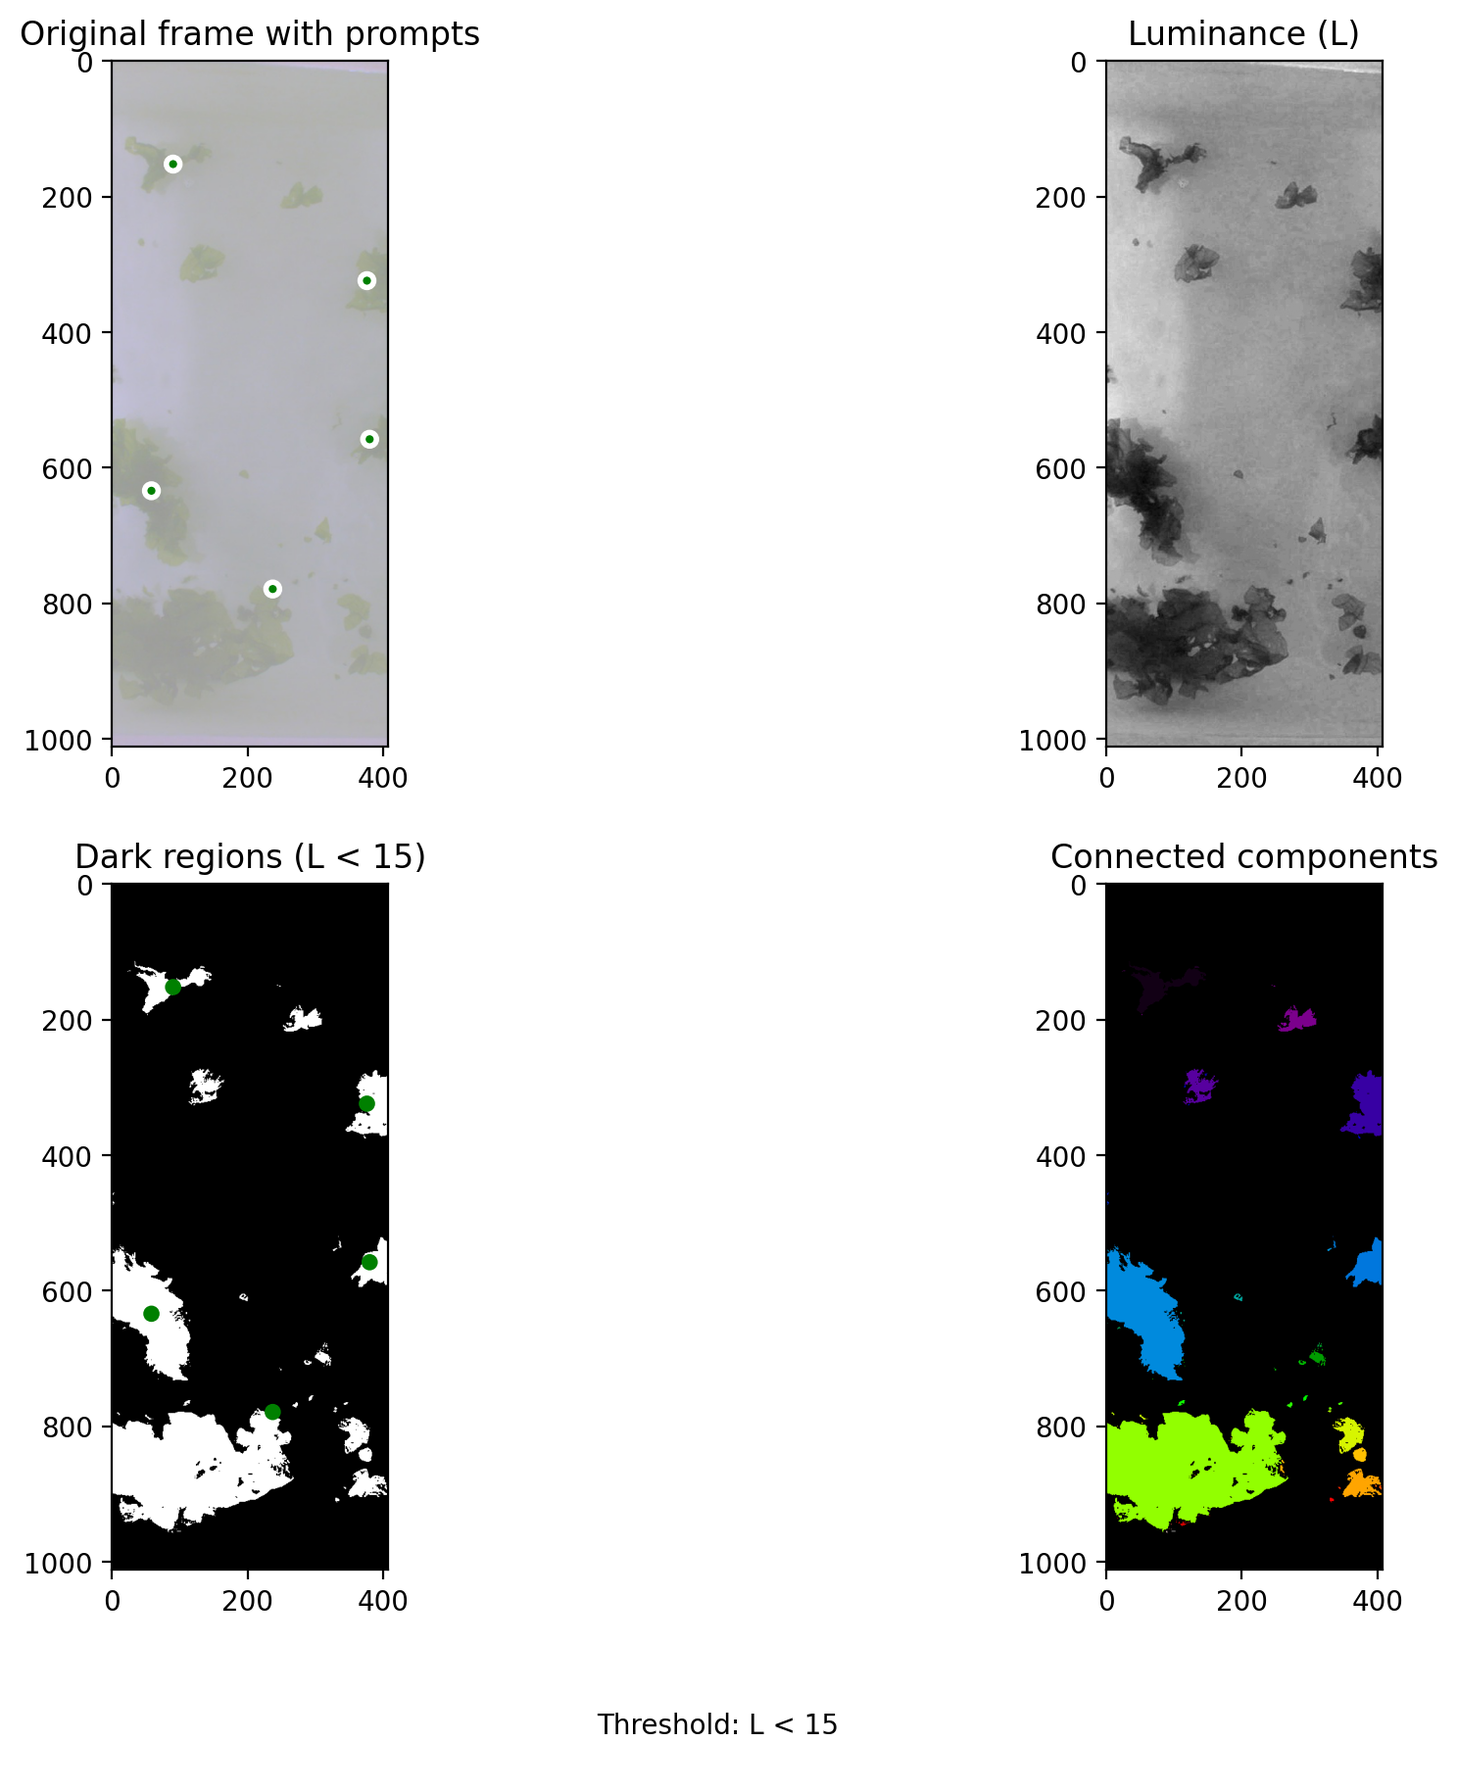
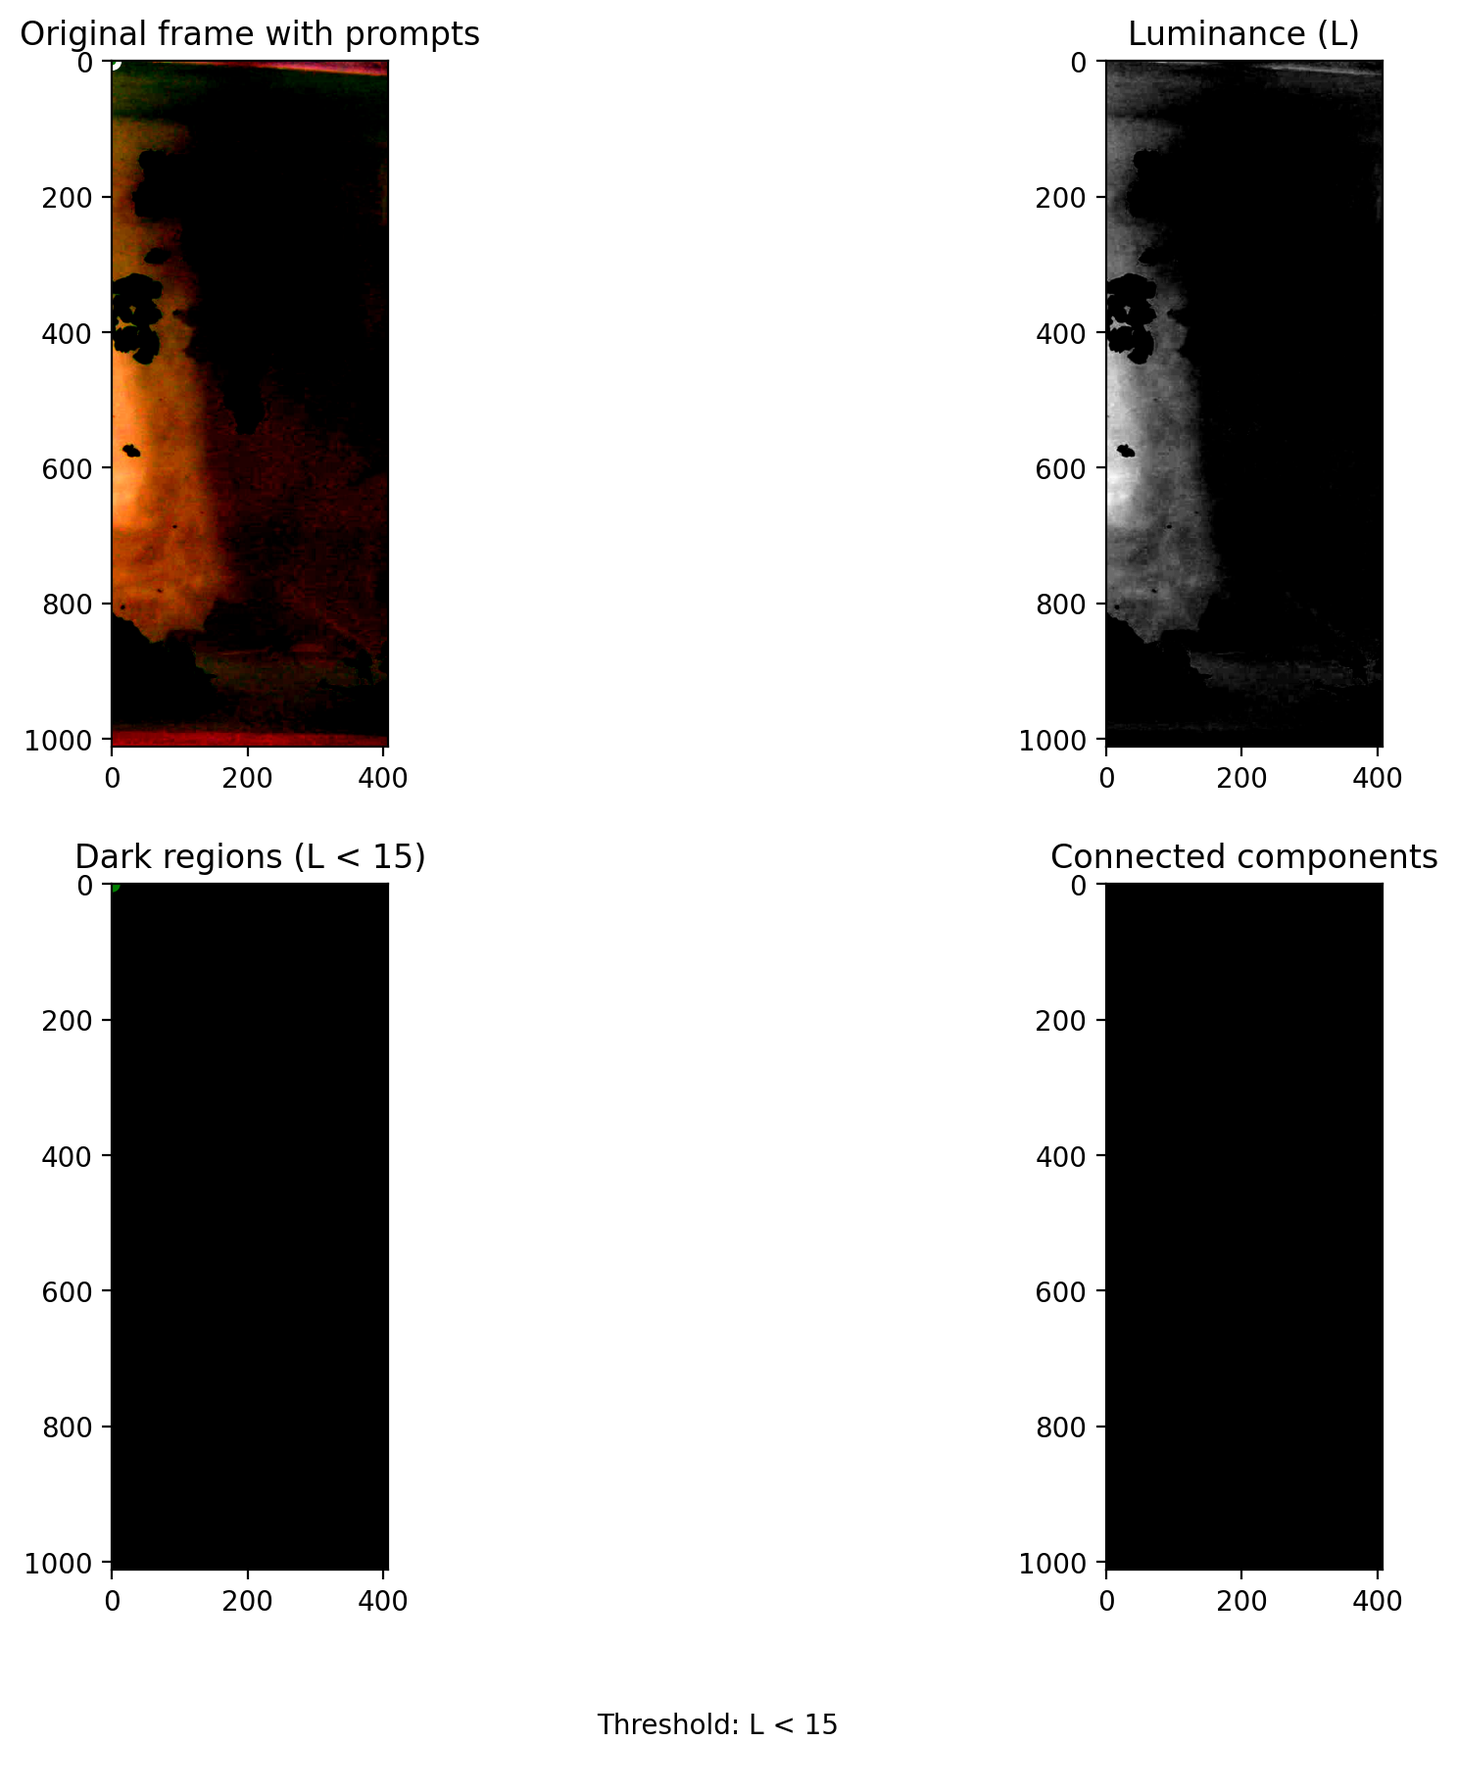
Update normalization function

diff --git a/main.py b/main.py
@@ -15,8 +15,11 @@ def process_video_directory(
     trial_frames_dict,
     model_name="facebook/sam2-hiera-base-plus",
     conf_threshold=0.5,
+    num_prompts=5,
+    luminance_percentile=10,
     output_folder="data/processed",
     max_frames=None,
+    save_files=False
 ):
     """
     Process video frames from multiple directories, extract features, and visualize results.
@@ -31,18 +34,22 @@ def process_video_directory(
     # Create output folder if it doesn't exist
     os.makedirs(output_folder, exist_ok=True)
 
+    # Initialize a list to hold all DataFrames
+    all_dfs = []
+
     # Process each directory
-    # for data_dir in data_dirs:
     for trial_name, frames in trial_frames_dict.items():
-        print(f"[INFO] Processing trial:: {trial_name}")
+        print(f"{'-' * 50}")
+        print(f"[INFO] Processing trial: {trial_name} using SAM")
 
         # Initialize DataFrame for this directory
         df = pd.DataFrame()
         # df['frame_path'] = get_frame_paths(data_dir)[:max_frames] if max_frames else get_frame_paths(data_dir)
         # df['frame_id'] = df['frame_path'].apply(lambda x: int(os.path.splitext(os.path.basename(x))[0]))
         df['frame_id'] = list(range(len(frames)))
-        df[['model_name', 'conf_threshold']] = model_name, conf_threshold
+        df[['model_name', 'conf_threshold', 'num_prompts', 'luminance_percentile', ]] = model_name, conf_threshold, num_prompts, luminance_percentile
         df['density'] = extract_density_from_dir(trial_name)
+        df['trial'] = trial_name[-1] # Takes number from names like 'Ulva_05_1_trial2'
 
         # Prompt SAM2 for video processing
         # video_frames, probs_stack, all_outputs = prompt_sam2(data_dir, model_name, max_frames, num_prompts=5, luminance_percentile=10)
@@ -51,7 +58,11 @@ def process_video_directory(
         # video_frames, probs_stack, all_outputs = segment_frames_sam2(frames, model_name, max_frames, num_prompts=5, luminance_percentile=10)
 
         # Prompt SAM1 for semantic segmentation per-frame
-        video_frames, probs_stack, all_outputs = segment_frames_sam1(frames, model_name, max_frames, num_prompts=5, luminance_percentile=15)
+        video_frames, probs_stack, all_outputs = segment_frames_sam1(frames, 
+                                                                    model_name, 
+                                                                    max_frames, 
+                                                                    num_prompts=num_prompts, 
+                                                                    luminance_percentile=luminance_percentile)
 
         # Pre-allocate lists for all features
         feature_keys = ['surface_area', 'mean_R', 'mean_G', 'mean_B', 'mean_L', 'mean_a', 'mean_b']
@@ -62,8 +73,8 @@ def process_video_directory(
             # Unpack prompts for this frame
             current_points = all_outputs[frame_idx]['points']
             current_labels = all_outputs[frame_idx]['labels']
-            # current_logits = all_outputs[frame_idx]['logits']
-            # current_masks = all_outputs[frame_idx]['masks'][frame_idx] # Second idx corresponds to the objectID. No tracking in current implementation
+            current_logits = all_outputs[frame_idx]['logits']
+            current_masks = all_outputs[frame_idx]['masks'] # Second idx corresponds to the objectID. No tracking in current implementation
 
             # Calculate surface area (in px)
             surface_area, binarized_mask = calculate_surface_area(probs.squeeze(), conf_threshold)
@@ -77,17 +88,18 @@ def process_video_directory(
                 feature_data[key].append(color_features[key])
 
             # Save visualization for each frame
-            # Save visualization for each frame
-            visualize_sam2_outputs(
-                trial_name,
-                video_frames,
-                current_points,
-                probs,
-                frame_idx=frame_idx,
-                data_dir=trial_name,
-                output_folder=output_folder,
-                conf_threshold=conf_threshold
-            )
+            if save_files:
+                visualize_sam2_outputs(
+                    trial_name,
+                    video_frames,
+                    current_points,
+                    probs,
+                    current_masks,
+                    frame_idx=frame_idx,
+                    data_dir=trial_name,
+                    output_folder=output_folder,
+                    conf_threshold=conf_threshold
+                )
 
         # Assign all data to the DataFrame at once
         for key in feature_keys:
@@ -96,23 +108,25 @@ def process_video_directory(
         # Calculate cumulative surface area
         df['cumulative_surface_area'] = np.cumsum(df['surface_area'])
 
+        # Append to the list of DataFrames
+        all_dfs.append(df)
+
         # Create visualization of features over entire timeseries
         visualize_features(df, conf_threshold, trial_name, output_dir=output_folder)
+        print(f"[INFO] Finished processing {trial_name}")
 
-        # Save .csv for downstream processes
-        output_path = f"{os.path.basename(trial_name)}_processed.csv"
-        df.to_csv(os.path.join(output_folder, output_path), index=False)
+    # Concatenate all trial DataFrames into one
+    combined_df = pd.concat(all_dfs, ignore_index=True)
 
-        print(f"[INFO] Saved processed data for {trial_name} to: {output_path}")
-    
-    # Combine all CSV's
-    csv_files = glob.glob(os.path.join(output_folder,'*.csv'))
-    df = pd.concat((pd.read_csv(f) for f in csv_files), ignore_index=True)
+    # Save a single combined CSV
+    combined_output_path = os.path.join(output_folder, "ulva_processed_data.csv")
+    combined_df.to_csv(combined_output_path, index=False)
+    print(f"[INFO] Saved processed data to: {combined_output_path}")
 
     # Compute correlation
     plot_features_vs_density(
-        df=df,
-        features=['surface_area', 'mean_R', 'mean_G', 'mean_B', 'mean_L', 'mean_a', 'mean_b'],
+        df=combined_df,
+        features=['surface_area', 'cumulative_surface_area', 'mean_R', 'mean_G', 'mean_B', 'mean_L', 'mean_a', 'mean_b'],
         output_folder=output_folder
     )
 
@@ -120,17 +134,16 @@ def process_video_directory(
 
 ## Video to frames preperation ##
 video_configs = {
-    r"data/Ducks/Ulva_05_1.avi": [(204, 3980), (4090, 9236), (9489, 13285)],
+    r"data/Ducks/Ulva_05_1.avi": [(208, 3978), (4089, 9233), (9490, 13285)], # 0.5 G/L
     r"data/Ducks/Ulva_10_1.avi": [(339, 4176), (4313, 7691), (7865, 11453)],
-    r"data/Ducks/Ulva_15_1.avi": [(119, 2670), (2850, 5143), (5480, 7741)],
-    r"data/Ducks/Ulva_20_3.avi": [(115, 2850), (2906, 5981), (6023, 8672)],
-    r"data/Ducks/Ulva_25_3.avi": [(205, 2312), (2342, 4682), (4724, 6936)],
-    r"data/Ducks/Ulva_30_1.avi": [(120, 2777), (2816, 4931), (4967, 7585)],
-    r"data/Ducks/Ulva_35_1.avi": [(108, 2546), (2587, 4952), (4994, 7295)],
-    r"data/Ducks/Ulva_40_1.avi": [(357, 2769), (2826, 5357), (5390, 7672)],
-    r"data/Ducks/Ulva_45_1.avi": [(114, 2508), (2542, 5027), (5056, 7710)],
-    r"data/Ducks/Ulva_50_1.avi": [(358, 2929), (3016, 5350), (5400, 7976)],
-
+    # r"data/Ducks/Ulva_15_1.avi": [(119, 2670), (2850, 5143), (5480, 7741)],
+    # r"data/Ducks/Ulva_20_3.avi": [(115, 2850), (2906, 5981), (6023, 8672)],
+    # r"data/Ducks/Ulva_25_3.avi": [(205, 2312), (2342, 4682), (4724, 6936)],
+    # r"data/Ducks/Ulva_30_1.avi": [(120, 2777), (2816, 4931), (4967, 7585)],
+    # r"data/Ducks/Ulva_35_1.avi": [(108, 2546), (2587, 4952), (4994, 7295)],
+    # r"data/Ducks/Ulva_40_1.avi": [(357, 2769), (2826, 5357), (5390, 7672)],
+    # r"data/Ducks/Ulva_45_1.avi": [(114, 2508), (2542, 5027), (5056, 7710)],
+    r"data/Ducks/Ulva_50_1.avi": [(358, 2929), (3016, 5350), (5400, 7976)], # 5.0 G/L
     }
 
 # Find the smallest ROI
@@ -140,6 +153,20 @@ roi_width, roi_height = find_smallest_roi(video_configs)
 # normalization_area = (150, 35, 100, 50) # Small square in center-top of the image
 normalization_area = (0, 100, 400, 800) # Main ROI covering 95% of entire frame (except sides)
 master_mean, master_std = get_master_stats(r"data/Ducks/Ulva_05_1.avi", roi_width, roi_height, normalization_area)
+
+# Instead of normalization parameters from .avi, use ImageNet instead
+# Values are: mean = [0.485, 0.456, 0.406] and std = [0.229, 0.224, 0.225] for RGB
+# ImageNet mean and std for [0, 1] range (RGB order)
+mean_rgb = [0.485, 0.456, 0.406]
+std_rgb = [0.229, 0.224, 0.225]
+
+# Scale to [0, 255] range and switch to BGR order
+master_mean = np.array([m * 255 for m in mean_rgb][::-1])
+master_std = np.array([s * 255 for s in std_rgb][::-1])
+
+print(f"[INFO] ImageNet normalization values (in BGR):")
+print(f"[INFO] Master mean: {master_mean}")
+print(f"[INFO] Master std: {master_std}")
 
 # Split video into individual trials
 all_trial_frames = {}
@@ -160,16 +187,19 @@ for input_video, keep_ranges in video_configs.items():
                            master_std=master_std,
 
                            # Save frames
-                           save_files=True
+                           save_files=False
                            )
     all_trial_frames.update(trial_frames)
 
 ## Semantic segmentation ##
 process_video_directory(
     trial_frames_dict=all_trial_frames,
-    model_name="facebook/sam2.1-hiera-large", # UNUSED FOR SAM1
-    # model_name='facebook/sam-vit-huge',
+    # model_name="facebook/sam2.1-hiera-large", # SAM2 ONLY
+    model_name='facebook/sam-vit-huge', # SAM1 ONLY
     conf_threshold=0.5,
+    num_prompts=5,
+    luminance_percentile=5, # Increase to >5% when using normalization
     output_folder="data/processed",
-    max_frames=50,
+    max_frames=None,
+    save_files=True
 )

diff --git a/src/video_clipping.py b/src/video_clipping.py
@@ -229,17 +229,28 @@ def normalize_clipped_frame(clipped_frame, master_mean, master_std):
     Normalize a clipped frame to match the master's mean and std.
     Assumes the clipped frame should match the master's overall distribution.
     """
-    for i in range(3):  # For each channel (B, G, R)
-        current_mean = np.mean(clipped_frame[:, :, i])
-        current_std = np.std(clipped_frame[:, :, i])
+    # Normalize each channel
+    normalized = (clipped_frame - master_mean) / master_std
 
-        # Avoid division by zero
-        if current_std > 0:
-            clipped_frame[:, :, i] = (
-                ((clipped_frame[:, :, i] - current_mean) * (master_std[i] / current_std))
-                + master_mean[i]
-            )
-    return np.clip(clipped_frame, 0, 255).astype(np.uint8)
+    # Scale back to [0, 255] and clip to ensure valid range
+    normalized = np.clip(normalized * 255, 0, 255)
+
+    # Convert to integer
+    return normalized.astype(np.uint8)
+
+    # for i in range(3):  # For each channel (B, G, R)
+    #     current_mean = np.mean(clipped_frame[:, :, i])
+    #     current_std = np.std(clipped_frame[:, :, i])
+
+    #     clipped_frame[:, :, i] = (clipped_frame[:, :, i] - master_mean[i]) / master_std[i]
+
+    #     # Avoid division by zero
+    #     if current_std > 0:
+    #         clipped_frame[:, :, i] = (
+    #             ((clipped_frame[:, :, i] - current_mean) * (master_std[i] / current_std))
+    #             + master_mean[i]
+    #         )
+    # return np.clip(clipped_frame, 0, 255).astype(np.uint8)
 
 def verify_normalization(
     original_frame: np.ndarray,
@@ -414,6 +425,8 @@ def process_video_n_frames(
     cap = cv2.VideoCapture(input_path)
     if not cap.isOpened():
         raise ValueError("Error: Could not open video.")
+    print(f"{'-' * 50}")
+    print(f"Started processing of {input_path} into frames per {seconds_interval} seconds")
 
     # Extract footage parameters
     fps = cap.get(cv2.CAP_PROP_FPS)
@@ -496,40 +509,3 @@ def process_video_n_frames(
     if save_files:
         print(f"[INFO] Frames saved in: {', '.join(trial_dirs)}")
     return trial_frames
-
-## TODO's ##
-# TODO: Find exact frames using DaVinci
-# TODO: At 0.5G/L, more than three trials are made
-
-# video_configs = {
-#     r"data/Ducks/Ulva_05_1.avi": [(204, 3980), (4090, 9236), (9489, 13285)],
-#     r"data/Ducks/Ulva_10_1.avi": [(339, 4176), (4313, 7691), (7865, 11453)],
-#     r"data/Ducks/Ulva_15_1.avi": [(119, 2670), (2850, 5143), (5480, 7741)],
-#     r"data/Ducks/Ulva_20_3.avi": [(115, 2850), (2906, 5981), (6023, 8672)],
-#     r"data/Ducks/Ulva_25_3.avi": [(205, 2312), (2342, 4682), (4724, 6936)],
-#     }
-
-# # Find the smallest ROI
-# roi_width, roi_height = find_smallest_roi(video_configs)
-
-# # Get normalization statistics for colour correction
-# # normalization_area = (150, 35, 100, 50) # Small square in center-top of the image
-# normalization_area = (0, 100, 400, 800) # Main ROI covering 95% of entire frame (except sides)
-# master_mean, master_std = get_master_stats(r"data/Ducks/Duck1.avi", roi_width, roi_height, normalization_area)
-
-# # Split video into individual trials
-# for input_video, keep_ranges in video_configs.items():
-#     print(f"[INFO] Processing {input_video} with keep ranges: {keep_ranges}")
-
-    
-#     process_video_n_frames(input_video, 
-#                            seconds_interval=8.0, #n_frames=175, 
-#                            keep_ranges=keep_ranges, 
-#                            roi=(roi_width, roi_height),
-#                            normalize=True,
-#                            normalization_area=normalization_area,
-#                            master_mean=master_mean,
-#                            master_std=master_std
-#                            )
-
-    # process_video_to_frames(input_video, frames_per_second=2, keep_ranges=keep_ranges) # Old function

diff --git a/src/data_exploration.py b/src/data_exploration.py
@@ -16,8 +16,17 @@ def plot_features_vs_density(df, features, output_folder='.'):
         density_col (str): Name of the density column.
         output_folder (str): Directory to save the plot.
     """
+
+    # Make a copy of the DataFrame for plotting
+    df_plot = df.copy()
+
+    # For 'cumulative_surface_area', take the max per trial per density
+    if 'cumulative_surface_area' in features:
+        max_surface = df.groupby(['density', 'trial'], as_index=False)['cumulative_surface_area'].max()
+        df_plot = df_plot.drop(columns=['cumulative_surface_area']).merge(max_surface, on=['density', 'trial'], how='left')
+
     # Compute correlations
-    correlations = df[['density'] + features].corr()['density'][1:]
+    correlations = df_plot[['density'] + features].corr()['density'][1:]
 
     # Create subplots
     n_rows = (len(features) + 1) // 2  # Arrange in 2 columns
@@ -27,17 +36,15 @@ def plot_features_vs_density(df, features, output_folder='.'):
     # Plot each feature
     for i, feature in enumerate(features):
         ax = axes[i]
-
         # Scatter plot with regression line
         sns.regplot(
             x='density',
             y=feature,
-            data=df,
+            data=df_plot,
             ax=ax,
             scatter_kws={'alpha':0.5},
             line_kws={'color':'red'}
         )
-
         # Add correlation as text
         corr = correlations[feature]
         ax.set_title(f'{feature} (r = {corr:.2f})')
@@ -51,6 +58,7 @@ def plot_features_vs_density(df, features, output_folder='.'):
     plt.tight_layout()
     plt.savefig(os.path.join(output_folder, 'correlation.png'), dpi=200)
     plt.close()
+
 
     # Print correlation table
     print(f"[INFO] Correlation with density:\n{correlations}")

diff --git a/src/visualization_utils.py b/src/visualization_utils.py
@@ -59,7 +59,7 @@ def visualize_luminance_prompts(frame, l, dark_regions, points, luminance_thresh
 
     print(f"[INFO] Saved figure to: {output_path}")
 
-def visualize_sam2_outputs(input_path, video_frames, points, video_res_masks, frame_idx, data_dir, output_folder, conf_threshold=0.5):
+def visualize_sam2_outputs(input_path, video_frames, points, probs, current_masks, frame_idx, data_dir, output_folder, conf_threshold=0.5):
     # Create output directory
     output_dir = os.path.join(output_folder, f"{os.path.basename(data_dir)}_processed")
     os.makedirs(output_dir, exist_ok=True)
@@ -68,7 +68,7 @@ def visualize_sam2_outputs(input_path, video_frames, points, video_res_masks, fr
     frame = video_frames[frame_idx]
 
     # Combine masks for all objects into a single mask
-    binarized_mask = (video_res_masks > conf_threshold).to(torch.uint8) * 255
+    binarized_mask = (probs > conf_threshold).to(torch.uint8) * 255
     binarized_mask = binarized_mask.cpu().squeeze().numpy()
 
     # Create figure
@@ -85,12 +85,13 @@ def visualize_sam2_outputs(input_path, video_frames, points, video_res_masks, fr
 
     # Plot mask probabilities
     #axes[1].imshow(frame)
-    axes[1].imshow(video_res_masks.cpu().squeeze().to(torch.float32), cmap='viridis', vmin=0, vmax=1.0)
+    axes[1].imshow(probs.cpu().squeeze().to(torch.float32), cmap='viridis', vmin=0, vmax=1.0)
     axes[1].set_title('Confidence')
     axes[1].axis('off')
 
     # Plot binarized mask
-    axes[2].imshow(binarized_mask, cmap='gray')
+    axes[2].imshow(current_masks.squeeze(), cmap='gray')
+    # axes[2].imshow(binarized_mask, cmap='gray')
     axes[2].set_title('Prediction')
     axes[2].axis('off')
 

diff --git a/src/data_utils.py b/src/data_utils.py
@@ -39,11 +39,12 @@ def create_luminance_prompts(frame, existing_masks=None, num_prompts=5, luminanc
         points: List of new prompt coordinates.
         labels: List of prompt labels (1 for positive).
     """
-    frame_np = np.array(frame)
-    r, g, b = frame_np.transpose(2, 0, 1)
+    # frame_np = np.array(frame)
+    r, g, b = frame.transpose(2, 0, 1)
 
     # # Convert to Lab color space for better green/white separation
-    lab = cv2.cvtColor(np.array(frame), cv2.COLOR_RGB2LAB)
+    # lab = cv2.cvtColor(np.array(frame), cv2.COLOR_RGB2LAB)
+    lab = cv2.cvtColor(frame, cv2.COLOR_BGR2LAB)
     l, a, b = cv2.split(lab)
 
     # Flatten luminance and find the threshold for the 10% darkest pixels, corresponding to the seaweed

diff --git a/src/sam_prompter.py b/src/sam_prompter.py
@@ -140,8 +140,6 @@ def segment_frames_sam1(frames, model_name, max_frames=None, num_prompts=5, lumi
     print(f"[INFO] Using device: {device}")
 
     # Initialize model
-    # TODO: Remove hard-coding
-    model_name = 'facebook/sam-vit-huge'
     model = SamModel.from_pretrained(model_name).to(device, dtype=torch.bfloat16)
     processor = SamProcessor.from_pretrained(model_name)
 
